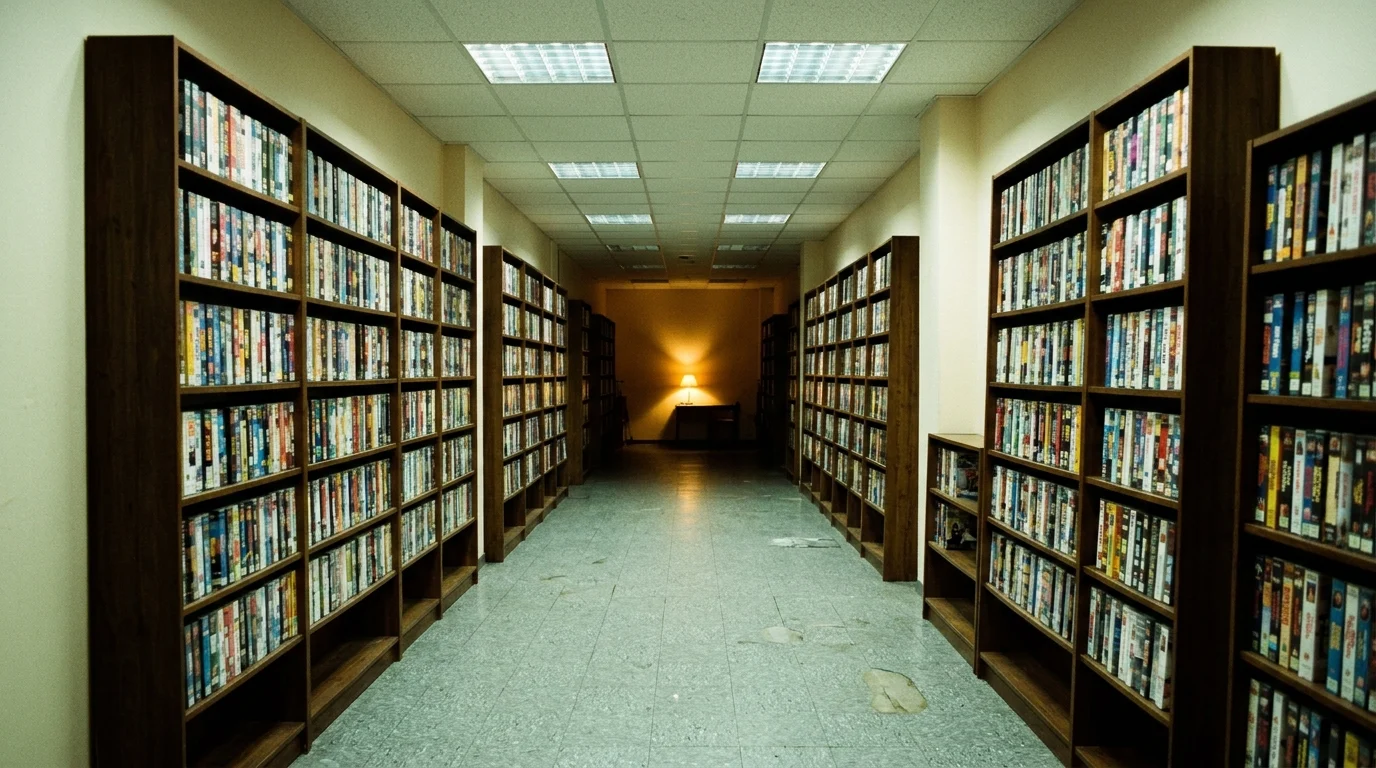
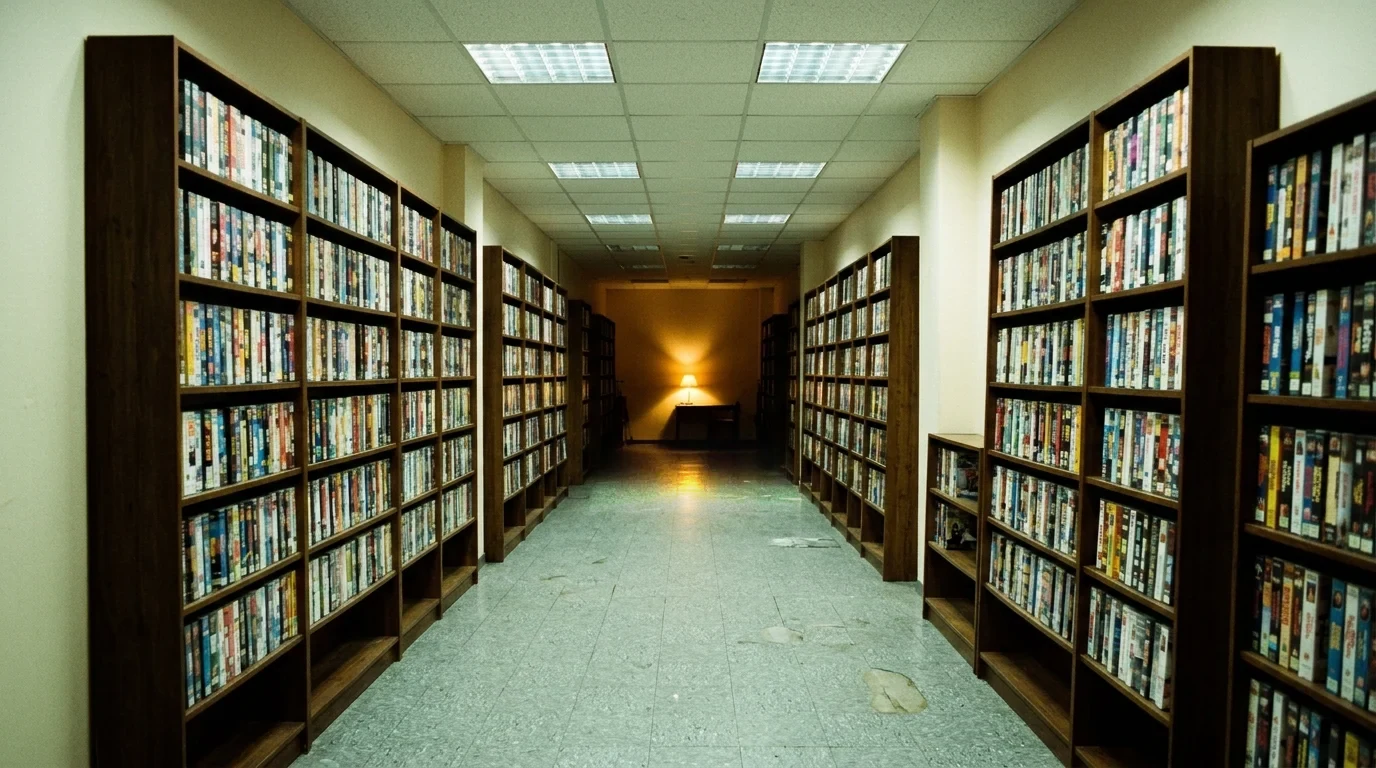
kave/videoclub.html: rebouclage du couloir sans cadre sombre (le niveau intérieur se fond dans le niveau extérieur), aberration réduite, quart de tour vers le rayon ; kave/a/vc/vc-01-salle.webp: sol du fond éclairci ; sw.js: clé de cache
Claude-Session: https://claude.ai/code/session_014nJuEKCANHhvLnGK4qv3q1

Changed region(s): [[0.4062, 0.5625, 0.5938, 0.6875]]

diff --git a/kave/videoclub.html b/kave/videoclub.html
@@ -29,7 +29,7 @@ button,[role=button]{touch-action:manipulation;user-select:none;-webkit-user-sel
 #wrap>.scene{grid-area:1/1}
 .scene{position:relative;width:var(--sw);height:var(--sh);opacity:0;visibility:hidden;transition:opacity .2s ease-out,visibility 0s .2s;
  -webkit-mask-image:linear-gradient(90deg,transparent,#000 2.5%,#000 97.5%,transparent),linear-gradient(transparent,#000 3.5%,#000 96.5%,transparent);-webkit-mask-composite:source-in;mask-image:linear-gradient(90deg,transparent,#000 2.5%,#000 97.5%,transparent),linear-gradient(transparent,#000 3.5%,#000 96.5%,transparent);mask-composite:intersect}
-.scene.on{opacity:1;visibility:visible;transition:opacity .9s cubic-bezier(.4,0,.2,1)}/* 10 nov. : le rayon et le comptoir paraissent en fondu lent */
+.scene.on{opacity:1;visibility:visible;transition:opacity .25s ease-out}/* 10 nov. : le rayon et le comptoir paraissent en fondu lent */
 .scene::after{content:"";position:absolute;inset:0;pointer-events:none;background:radial-gradient(ellipse 75% 80% at 50% 50%,transparent 55%,rgba(0,0,0,.5))}
 .scene>img.bg{position:absolute;inset:0;width:100%;height:100%;display:block}
 .hot{position:absolute;cursor:pointer;outline:0}
@@ -133,20 +133,21 @@ function fit(){var W=innerWidth,Hh=innerHeight-barH(),sw=Math.min(W,Hh*IA);PAN=f
 /* 2. le couloir : un tube WebGL ; barillet, aberration de lentille, vignette, grain ; deux tirages du même plan, l'un dans l'autre, font un travelling sans fin */
 var cv=$('#hall'),gl=null,P=null,U={},TEX=null,img=new Image(),ready=false;
 /* 10 nov. (A51) : l'allée sans fond ; le fond de l'allée contient la même allée, trois fois plus petite, à l'infini (récursion au point de fuite), sous l'optique en barillet qui mange les bords */
-var K=.2,Z0=.93,KD=.33,V=[.5,.458],HOLE=[580/1376,255/768,800/1376,488/768],R0=HOLE.map(function(x,j){var c=V[j%2];return c+(x-c)/KD}),FV=[150/1376,150/768];
+var K=.2,Z0=.93,KD=.33,V=[.5,.458],HOLE=[580/1376,255/768,800/1376,500/768],R0=HOLE.map(function(x,j){var c=V[j%2];return c+(x-c)/KD}),FV=[120/1376,70/768];
 var S={D:0,v:0,push:0,foc:[.5,.49],hl:[0,0,0],hlT:[0,0,0],lum:RM?1:.1,tm:0,intro:-1};
 var CREEP=RM?0:.022;
 var VS='attribute vec2 p;void main(){gl_Position=vec4(p,0.,1.);}';
 var FS='precision highp float;uniform sampler2D T;uniform vec2 R,Vp,Fo,Fv;uniform float Uu,Lk,Kd,Kk,Z,Pu,Lu,Tm,Ia,E1,F1;uniform vec3 Hl;uniform vec4 M1,M0;'+
 'vec2 fin(vec2 s){return Fo+(s-Fo)*(1.-.6*Pu);}'+
 'float ins(vec2 s){vec2 m=min(s,1.-s);return smoothstep(0.,.06,m.x)*smoothstep(0.,.09,m.y);}'+
+'float in2(vec2 s){vec2 m=min(s,1.-s);return smoothstep(0.,.12,m.x)*smoothstep(0.,.18,s.y)*smoothstep(0.,.05,1.-s.y);}'+
 'float bx(vec2 p,vec4 r,vec2 f){return smoothstep(r.x,r.x+f.x,p.x)*smoothstep(r.z,r.z-f.x,p.x)*smoothstep(r.y,r.y+f.y,p.y)*smoothstep(r.w,r.w-f.y,p.y);}'+
 'void main(){vec2 q=(gl_FragCoord.xy-.5*R)/R.y;q.y=-q.y;float a=R.x/R.y,r2=dot(q,q)/(a*a*.25+.25),c=max(1.,a/Ia);'+
-' float f=Z*(1.+Kk*r2);vec2 p0=fin(.5+q*f/(c*vec2(Ia,1.))),ab=(p0-.5)*.008*r2;float s=exp(Uu*Lk),w=1.;vec3 col=vec3(0.);'+
+' float f=Z*(1.+Kk*r2);vec2 p0=fin(.5+q*f/(c*vec2(Ia,1.))),ab=(p0-.5)*.004*r2;float s=exp(Uu*Lk),w=1.;vec3 col=vec3(0.);'+
 ' for(int k=0;k<6;k++){vec2 t=Vp+(p0-Vp)/s,d=ab/s;vec3 x=vec3(texture2D(T,t+d).r,texture2D(T,t).g,texture2D(T,t-d).b);'+
 '  float l=1.-smoothstep(.40,.45,t.x),r=smoothstep(.55,.60,t.x);vec2 le=(t-vec2(.5,.497))/vec2(.06,.14);float lp=exp(-dot(le,le)*1.6);'+
-'  x*=1.+(l*Hl.x+r*Hl.y)*.35;x+=vec3(1.,.78,.5)*lp*(.09+.45*Hl.z);float e=k==0?ins(t):k==1?mix(1.,ins(t),E1):1.;'+
-'  float m=0.;if(k<5){vec2 tn=Vp+(p0-Vp)/(s*Kd);m=k==0?bx(tn,M1,Fv*F1):bx(tn,M0,Fv);}col+=w*(1.-m)*x*e;w*=m;s*=Kd;}'+
+'  x*=1.+(l*Hl.x+r*Hl.y)*.35;x+=vec3(1.,.78,.5)*lp*(.09+.45*Hl.z);float e=k==0?ins(t)*(1.-smoothstep(.8,1.,Uu)):1.;'+
+'  float m=0.;if(k<5){vec2 tn=Vp+(p0-Vp)/(s*Kd);m=k==0?bx(tn,M1,Fv*F1)*mix(in2(tn),ins(tn),smoothstep(.75,1.,Uu)):bx(tn,M0,Fv);}col+=w*(1.-m)*x*e;w*=m;s*=Kd;}'+
 ' col*=clamp(1.-.62*pow(r2,1.5),0.,1.)*Lu;float y=dot(col,vec3(.299,.587,.114));col=mix(vec3(y),col,.88)*.96+.018;'+
 ' float n=fract(sin(dot(gl_FragCoord.xy+floor(Tm*24.)*vec2(17.,31.),vec2(12.9898,78.233)))*43758.5453);col+=(n-.5)*.075;'+
 ' gl_FragColor=vec4(col,1.);}';
@@ -266,7 +267,11 @@ $('#hPhone').onclick=function(){if(!swiped)phUp(!PH.up)};
 /* 7. passer d'un lieu à l'autre par la scène : travelling vers le rayon ou la lampe ; retour par le geste vers le bas, le bord de la photo, Échap, le retour du navigateur, Baku Boom */
 var SC={rayon:$('#rayon'),comptoir:$('#comptoir')},WR=$('#wrap');
 function center(){if(!PAN)return;var sw=parseFloat(getComputedStyle(root).getPropertyValue('--sw'))||0,c=scene==='comptoir'?.415:.5;WR.scrollLeft=Math.max(0,sw*c-innerWidth/2)}
-function reveal(id){scene=id;warm();Object.keys(SC).forEach(function(k){SC[k].classList.toggle('on',k===id)});WR.classList.add('live');hs.classList.add('off');cv.classList.add('dim');$('#grain').classList.add('on');
+/* 12 nov. (Mauk Tenieb : « la plongée soudaine par voile sombre ») : vers un rayon, un quart de tour ; l'étagère entre de côté */
+function turn(el,id){if(RM||!el.animate)return;var L=S.foc[0]<.5,o=id==='rayon'?(L?'0% 50%':'100% 50%'):'50% 50%';
+ var k0=id==='rayon'?'perspective(1400px) translateX('+(L?-18:18)+'%) rotateY('+(L?58:-58)+'deg)':'perspective(1400px) translateZ(-260px)';
+ el.animate([{transform:k0,transformOrigin:o,opacity:.15,filter:'brightness(.75)'},{transform:'none',transformOrigin:o,opacity:1,filter:'none'}],{duration:id==="rayon"?720:460,easing:"cubic-bezier(.25,.6,.25,1)"})}
+function reveal(id){scene=id;warm();turn(SC[id],id);Object.keys(SC).forEach(function(k){SC[k].classList.toggle('on',k===id)});WR.classList.add('live');hs.classList.add('off');cv.classList.add('dim');$('#grain').classList.add('on');
  if(id==='comptoir')comptoir();center();
  setTimeout(function(){if(scene!==id)return;if(id==='rayon'){var b=BOX[inHand?TAPES.indexOf(inHand):0];if(b)b.focus({preventScroll:true})}else $('#tv').focus({preventScroll:true})},RM?0:220)}
 function show(id){shut();if(id!=='comptoir')vcClip(false);if(id===scene&&!busy)return;

diff --git a/sw.js b/sw.js
@@ -1,5 +1,5 @@
 /* Insert Koin: pages and code from the network first (the cache only when offline); images, fonts and wasm from the cache, then refreshed */
-const C='borne-202611110915';  // prefix borne- : this worker clears only its own caches, Insert Koin's ik- caches stay
+const C='borne-202611110920';  // prefix borne- : this worker clears only its own caches, Insert Koin's ik- caches stay
 self.addEventListener('install',e=>self.skipWaiting());
 self.addEventListener('activate',e=>e.waitUntil(caches.keys().then(ks=>Promise.all(ks.filter(k=>k!==C&&(k.indexOf('borne-')===0||(k.indexOf('ik-')===0&&k.indexOf('ik-archive')!==0))).map(k=>caches.delete(k)))).then(()=>self.clients.claim())));
 self.addEventListener('fetch',e=>{const u=new URL(e.request.url);if(e.request.method!=='GET'||u.origin!==location.origin||e.request.headers.has('range'))return;  // audio and video read by ranges go to the network (Safari)
